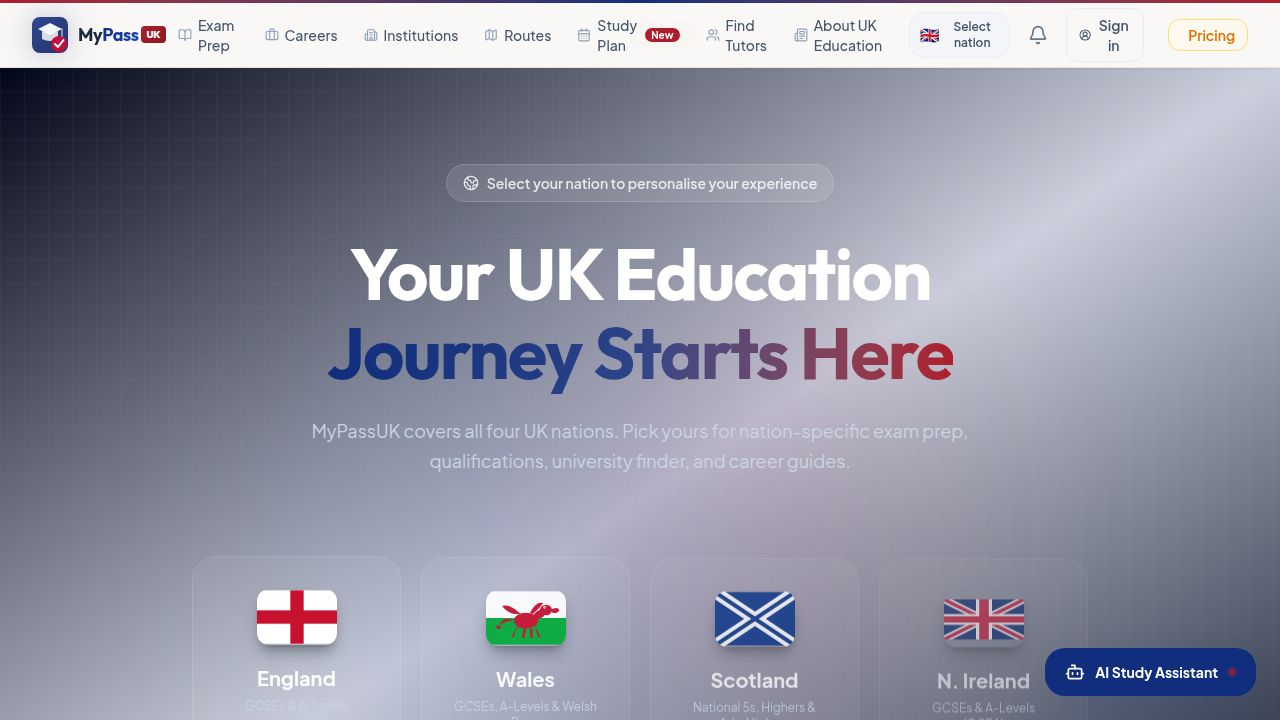
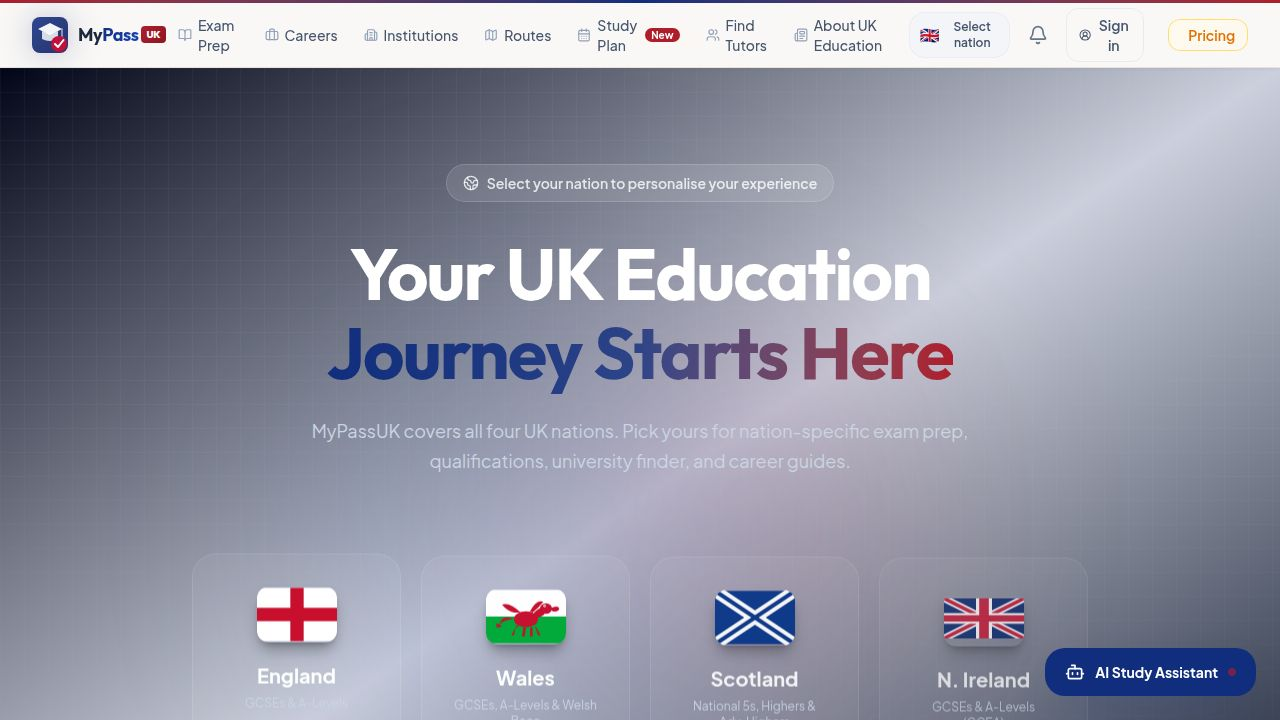
Update subject and timetable filters to be nation-specific
Modify Subjects.tsx and Timetable.tsx to dynamically adjust subject level filters and displayed options based on the selected nation, ensuring Scotland-specific SQA subjects and levels are prioritized.

Replit-Commit-Author: Agent
Replit-Commit-Session-Id: 71be2178-80ac-4081-bbe0-8395f624f365
Replit-Commit-Checkpoint-Type: full_checkpoint
Replit-Commit-Event-Id: e1c9ced7-10da-4386-b3ed-1faadf0cb9d0
Replit-Commit-Screenshot-Url: https://storage.googleapis.com/screenshot-production-us-central1/df549543-32b7-49b4-84a8-8cbe87d7eb40/71be2178-80ac-4081-bbe0-8395f624f365/dfzzEC3
Replit-Helium-Checkpoint-Created: true

diff --git a/artifacts/uk-education-guide/src/pages/Timetable.tsx b/artifacts/uk-education-guide/src/pages/Timetable.tsx
@@ -9,6 +9,7 @@ import {
 import { useGetSubjects } from "@workspace/api-client-react";
 import { LoadingSpinner } from "@/components/ui/LoadingSpinner";
 import { Link } from "wouter";
+import { useNation } from "@/contexts/NationContext";
 
 function isPremiumUser(): boolean {
   return localStorage.getItem("uk-edguide-premium") === "true";
@@ -585,12 +586,27 @@ function SaveModal({ onSave, onClose }: { onSave: (name: string) => void; onClos
 
 // ─── Main Component ───────────────────────────────────────────────────────────
 
+const NATION_LEVEL_FILTERS: Record<string, string[]> = {
+  england: ["All", "GCSE", "A-Level"],
+  wales: ["All", "GCSE", "A-Level"],
+  "northern-ireland": ["All", "GCSE", "A-Level"],
+  scotland: ["All", "National 5", "Higher", "Advanced Higher"],
+};
+
+const NATION_LEVEL_MATCH: Record<string, string[]> = {
+  england: ["GCSE", "A-Level", "Both"],
+  wales: ["GCSE", "A-Level", "Welsh Bacc", "Both"],
+  "northern-ireland": ["GCSE", "A-Level", "Both"],
+  scotland: ["National 5", "Higher", "Advanced Higher"],
+};
+
 export default function Timetable() {
+  const { nation } = useNation();
   const { data: allSubjects = [], isLoading } = useGetSubjects();
 
   const [step, setStep] = useState<1 | 2 | 3>(1);
   const [selectedIds, setSelectedIds] = useState<Set<number>>(new Set());
-  const [levelFilter, setLevelFilter] = useState<"All" | "GCSE" | "A-Level">("All");
+  const [levelFilter, setLevelFilter] = useState<string>("All");
   const [search, setSearch] = useState("");
   const [mode, setMode] = useState<ScheduleMode>("term");
 
@@ -669,10 +685,27 @@ export default function Timetable() {
     });
   }, [clearTimer]);
 
+  // Reset filter to "All" when nation changes
+  useEffect(() => {
+    setLevelFilter("All");
+    setSelectedIds(new Set());
+  }, [nation]);
+
+  const isScotland = nation === "scotland";
+  const levelFilterOptions = nation ? NATION_LEVEL_FILTERS[nation] : ["All", "GCSE", "A-Level"];
+
   const filteredSubjects = allSubjects.filter(s => {
-    const matchLevel = levelFilter === "All" || s.level === levelFilter || s.level === "Both";
+    // Nation filter: show only subjects appropriate for the selected nation
+    const nationMatch = !nation
+      ? true
+      : isScotland
+        ? NATION_LEVEL_MATCH[nation].includes(s.level)
+        : NATION_LEVEL_MATCH[nation].includes(s.level);
+    // Level filter: for Scotland use exact match; for others "Both" counts as GCSE+A-Level
+    const matchLevel = levelFilter === "All" || s.level === levelFilter ||
+      (!isScotland && s.level === "Both" && (levelFilter === "GCSE" || levelFilter === "A-Level"));
     const matchSearch = s.name.toLowerCase().includes(search.toLowerCase());
-    return matchLevel && matchSearch;
+    return nationMatch && matchLevel && matchSearch;
   });
 
   const selectedSubjects = allSubjects.filter(s => selectedIds.has(s.id));
@@ -919,8 +952,14 @@ export default function Timetable() {
             <motion.div key="step1" initial={{ opacity: 0, y: 16 }} animate={{ opacity: 1, y: 0 }} exit={{ opacity: 0, y: -16 }}>
               <div className="flex flex-col md:flex-row gap-4 items-start md:items-center justify-between mb-6">
                 <div>
-                  <h2 className="text-2xl font-bold text-slate-900">Which subjects are you sitting?</h2>
-                  <p className="text-slate-500 text-sm mt-1">Select all subjects you want included. Combined Science automatically splits into Biology, Chemistry and Physics.</p>
+                  <h2 className="text-2xl font-bold text-slate-900">
+                    {isScotland ? "Which SQA subjects are you sitting?" : "Which subjects are you sitting?"}
+                  </h2>
+                  <p className="text-slate-500 text-sm mt-1">
+                    {isScotland
+                      ? "Select your National 5, Higher and Advanced Higher subjects. Your timetable will reflect SQA study periods."
+                      : "Select all subjects you want included. Combined Science automatically splits into Biology, Chemistry and Physics."}
+                  </p>
                 </div>
                 {selectedIds.size > 0 && (
                   <div className="flex items-center gap-3 shrink-0">
@@ -954,8 +993,8 @@ export default function Timetable() {
                   <input type="text" placeholder="Search subjects..." value={search} onChange={e => setSearch(e.target.value)}
                     className="w-full pl-9 pr-4 py-2.5 rounded-xl border border-slate-200 bg-white text-sm focus:outline-none focus:ring-2 focus:ring-primary/20 focus:border-primary/40" />
                 </div>
-                <div className="flex gap-2">
-                  {(["All", "GCSE", "A-Level"] as const).map(lvl => (
+                <div className="flex gap-2 flex-wrap">
+                  {levelFilterOptions.map(lvl => (
                     <button key={lvl} onClick={() => setLevelFilter(lvl)}
                       className={`px-4 py-2.5 rounded-xl text-sm font-semibold transition-all ${levelFilter === lvl ? "bg-primary text-white shadow-md" : "bg-white text-slate-600 border border-slate-200 hover:border-primary/30"}`}>
                       {lvl}

diff --git a/artifacts/uk-education-guide/src/pages/Subjects.tsx b/artifacts/uk-education-guide/src/pages/Subjects.tsx
@@ -1,4 +1,4 @@
-import { useState, useMemo } from "react";
+import { useState, useMemo, useEffect } from "react";
 import { Link } from "wouter";
 import { motion } from "framer-motion";
 import { BookOpen, Filter, Search, GraduationCap, MapPin, Bookmark } from "lucide-react";
@@ -40,16 +40,30 @@ export default function Subjects() {
   const filterOptions = nation ? NATION_FILTERS[nation] : ["All", "GCSE", "A-Level", "National 5", "Higher", "Advanced Higher"];
   const [levelFilter, setLevelFilter] = useState<string>("All");
 
+  // Reset filter to "All" whenever the nation changes so Scotland subjects are always visible
+  useEffect(() => {
+    setLevelFilter("All");
+  }, [nation]);
+
   const { data: subjects, isLoading, error } = useGetSubjects();
+
+  const isScotland = nation === "scotland";
 
   const filteredSubjects = useMemo(() => {
     return subjects?.filter((s) => {
-      const nationMatch = !nation || NATION_LEVEL_MATCH[nation].includes(s.level) || s.level === "Both";
-      const levelMatch = levelFilter === "All" || s.level === levelFilter || (levelFilter !== "All" && s.level === "Both" && (levelFilter === "GCSE" || levelFilter === "A-Level"));
+      // For Scotland: only show Scottish-level subjects (not "Both" which = GCSE+A-Level)
+      const nationMatch = !nation
+        ? true
+        : isScotland
+          ? NATION_LEVEL_MATCH[nation].includes(s.level)
+          : NATION_LEVEL_MATCH[nation].includes(s.level) || s.level === "Both";
+      // levelMatch: for Scotland, "Both" filter button doesn't exist so just match exact level
+      const levelMatch = levelFilter === "All" || s.level === levelFilter ||
+        (!isScotland && levelFilter !== "All" && s.level === "Both" && (levelFilter === "GCSE" || levelFilter === "A-Level"));
       const searchMatch = s.name.toLowerCase().includes(search.toLowerCase()) || s.category.toLowerCase().includes(search.toLowerCase());
       return nationMatch && levelMatch && searchMatch;
     });
-  }, [subjects, nation, levelFilter, search]);
+  }, [subjects, nation, isScotland, levelFilter, search]);
 
   const nationInfo = nation ? NATIONS.find(n => n.id === nation) : null;
   const base = import.meta.env.BASE_URL;